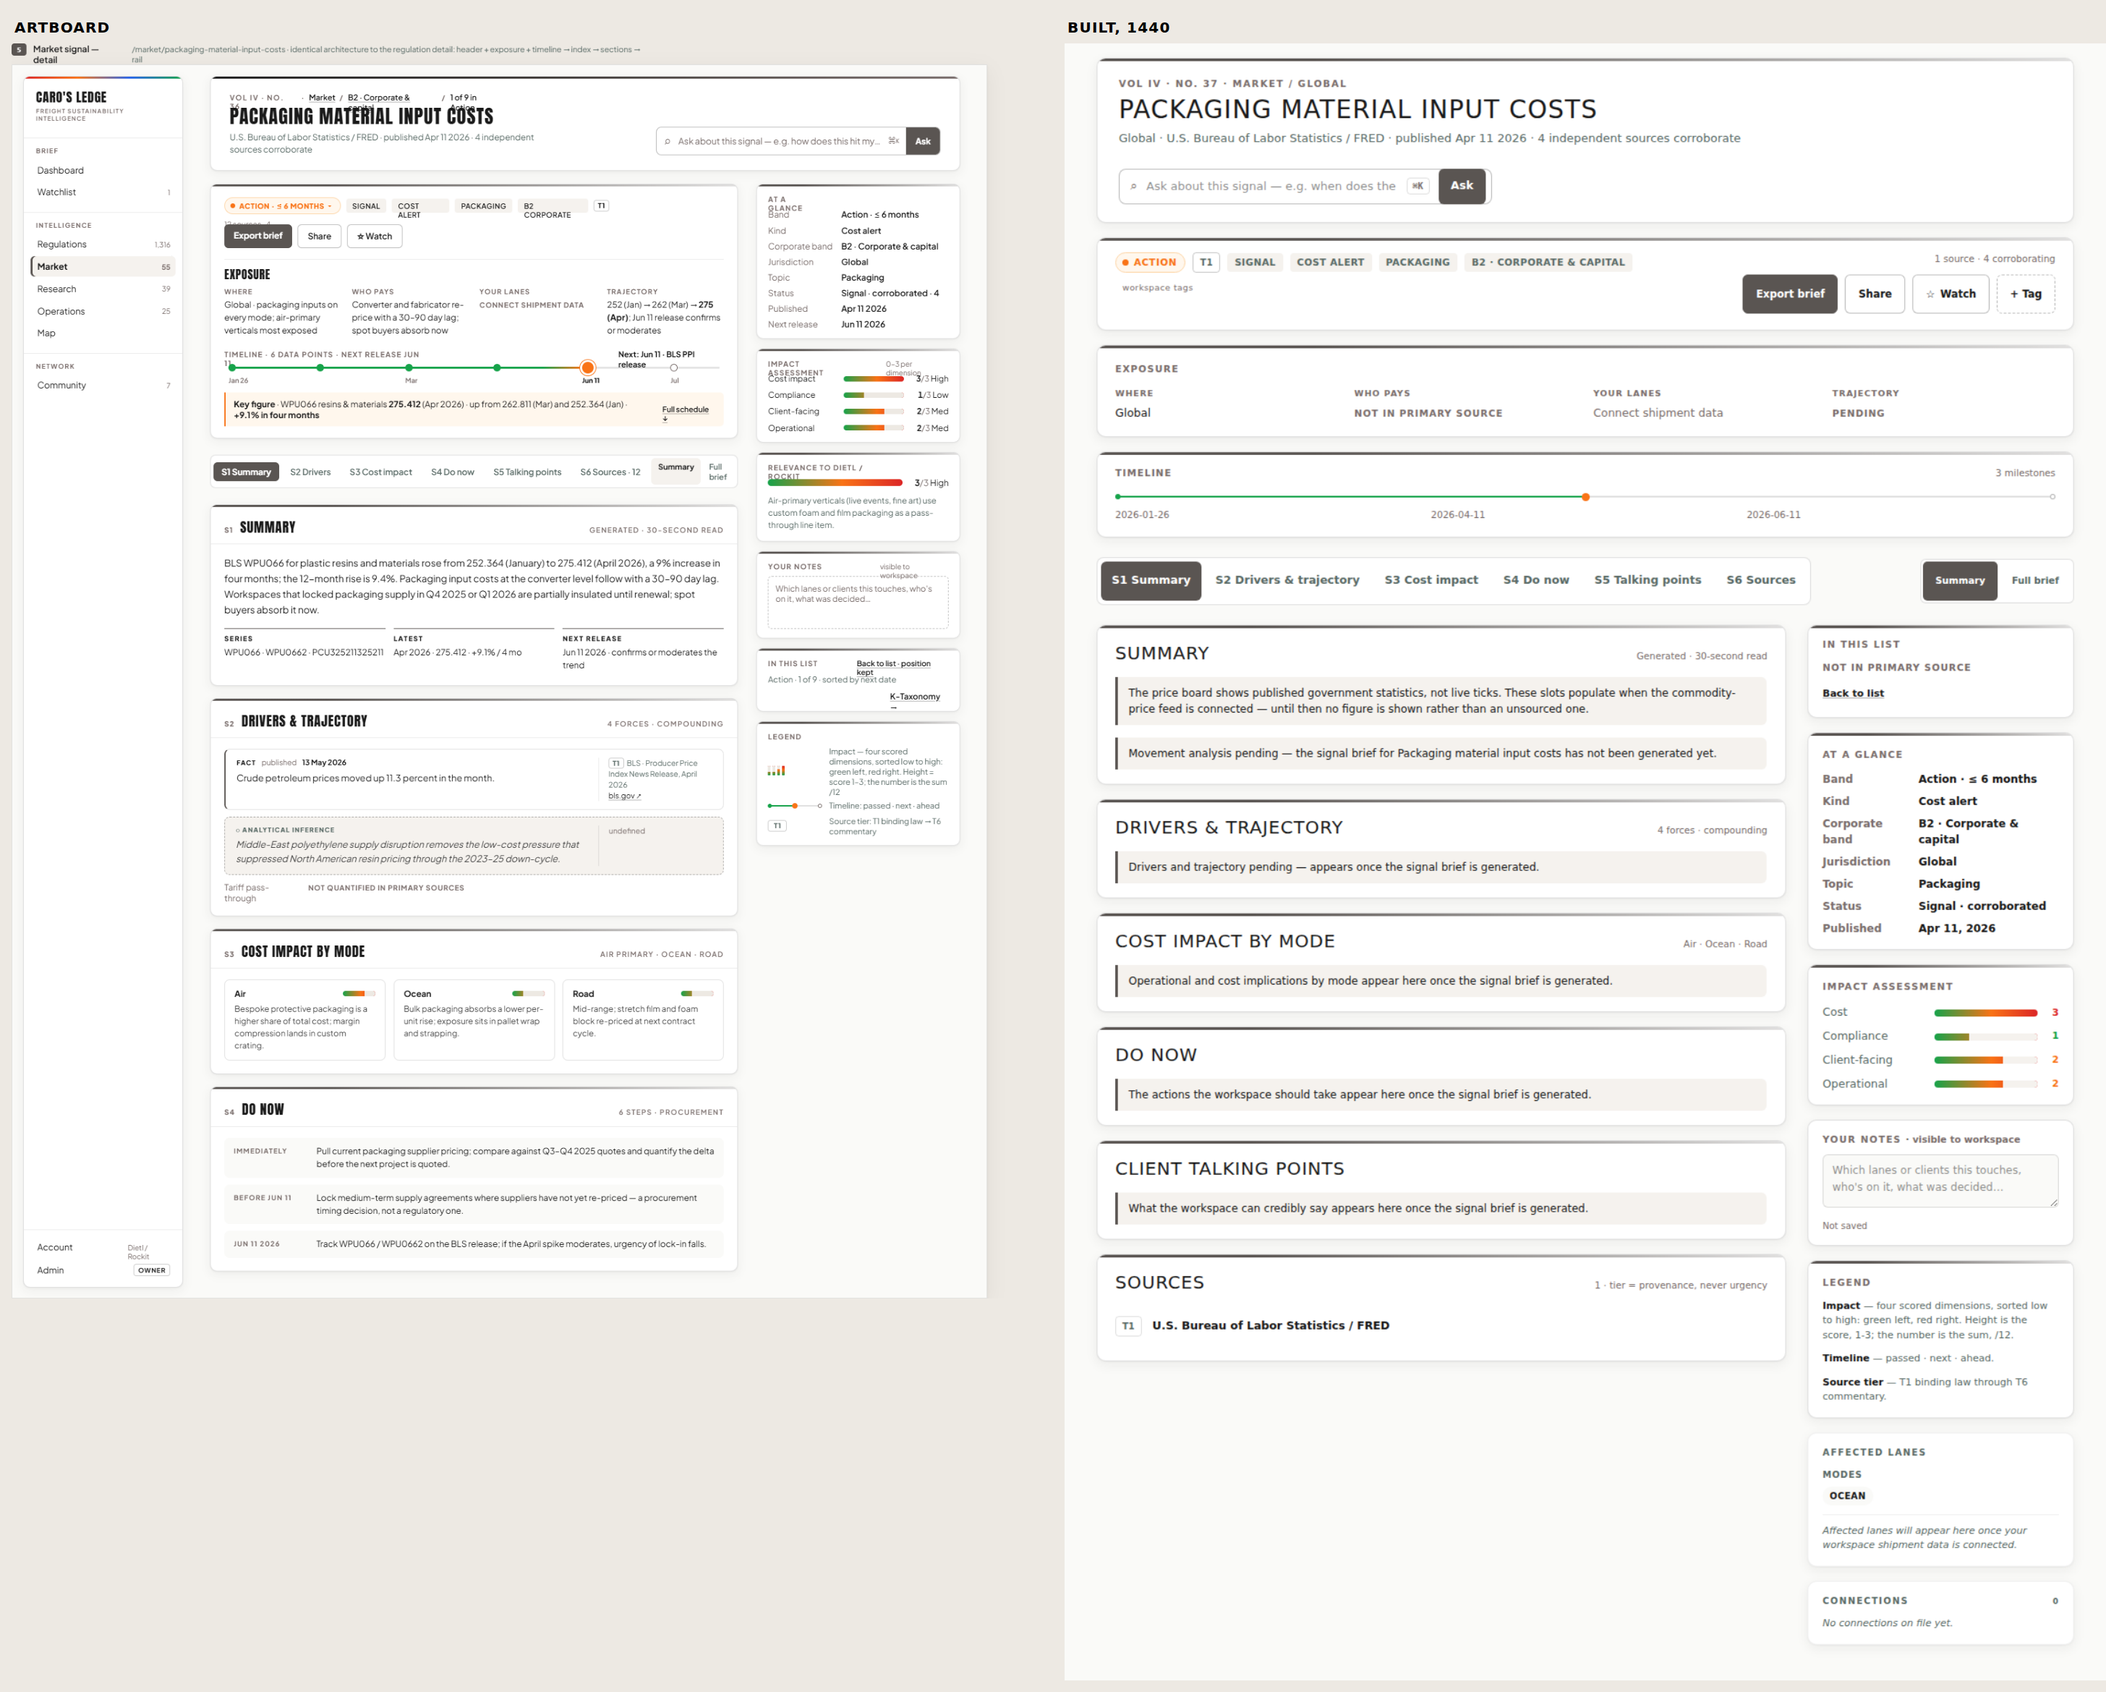
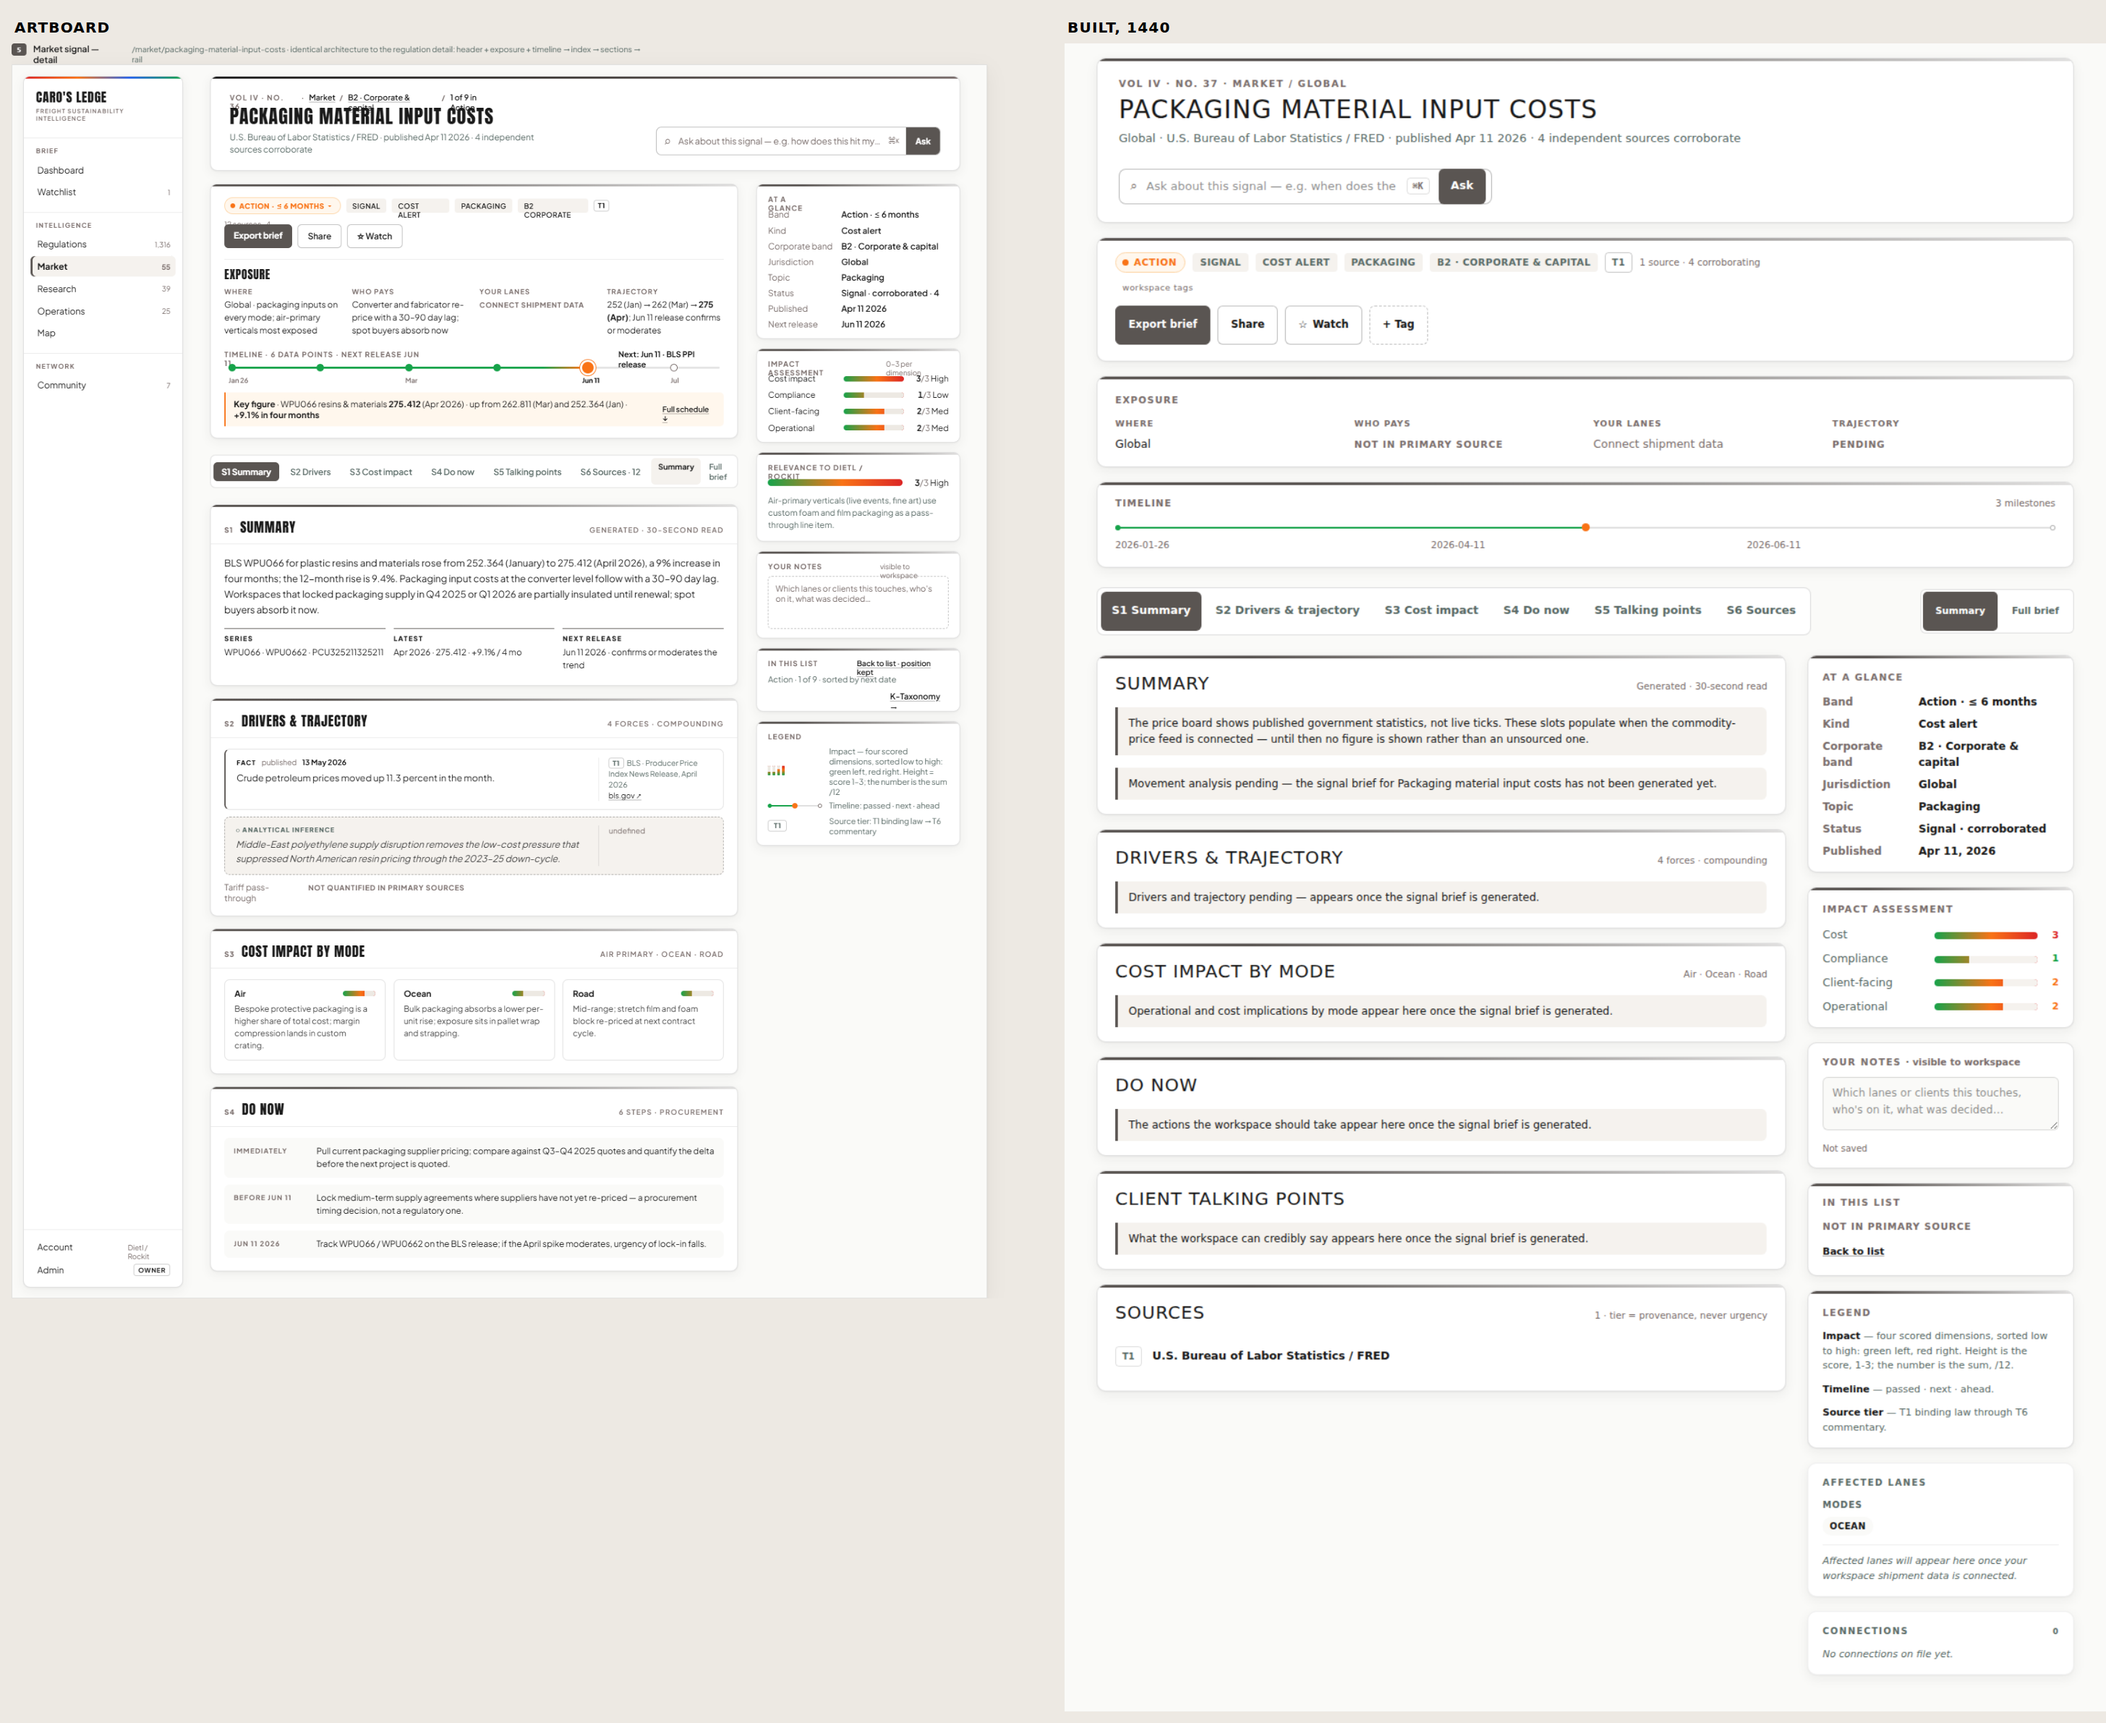
fix(detail): stack the header the way all four artboards draw it, and capture
Two geometry differences the side-by-sides showed that no spec measured.

1. The header stat ("7 sources · T1 primary", "1 source · 23 connections") is
   the LAST CHILD OF THE CHIP ROW on every detail artboard. The build rendered
   it as a right-aligned line of its own above the action row.
2. The artboards STACK the header: chip row, workspace tag row, action row,
   every one left-aligned at the card's own padding. The build laid it out as a
   two-column space-between row, so the action row floated to the card's right
   edge on 03/07/09 and only happened to stack on 05, where the chips were wide
   enough to force a wrap.

Both fixed once, in the shared DetailHeader.

Also: the 07 fixture gains `theme: 'emissions_accounting'`, the intelligence_
items column value assignTheme maps through THEME_COLUMN_TO_KEY. Without it the
classifier fell through to keyword matching, returned null, and artboard 07's
third chip and its At a glance "Theme" row were both absent from the capture.
compose-07 gains a chip-order row that measures it.

Side-by-sides regenerated and read beside the artboard PNGs.

Design audit 60 specs / 1012 checks / 1012 MATCH; rendering guard PASS; tsc
clean.

(cherry picked from commit bf3db5bf910269fe4cecd91bd5766cdbd4cdeaf8)
(cherry picked from commit 414281235960535f0979d6084e6d26ba34c7e498)

diff --git a/fsi-app/src/components/detail/DetailShell.tsx b/fsi-app/src/components/detail/DetailShell.tsx
@@ -117,8 +117,13 @@ export function DetailHeader({ band, tier, title, actions, extraChips, tagRow, h
       <div aria-hidden="true" style={{ position: "absolute", top: 0, left: 0, right: 0 }}>
         <SectionRule />
       </div>
-      <div style={{ display: "flex", justifyContent: "space-between", alignItems: "flex-start", gap: 16, flexWrap: "wrap" }}>
-        <div style={{ minWidth: 0 }}>
+      {/* All four detail artboards STACK this header: the chip row (ending in the tier square and
+          the stat), then the workspace tag row, then the action row, every one of them left-aligned
+          at the card's own padding. The build laid it out as a two-column space-between row, which
+          floated the action row to the right edge on 03/07/09 and only stacked on 05 when the chips
+          happened to be wide enough to force a wrap. */}
+      <div style={{ display: "flex", flexDirection: "column", alignItems: "flex-start", gap: 12 }}>
+        <div style={{ minWidth: 0, maxWidth: "100%" }}>
           <div data-audit="detail-chips" style={{ display: "flex", alignItems: "center", gap: 8, flexWrap: "wrap" }}>
             {/* Artboard chip order, all four detail artboards (dc.html #p3/#p5/#p7/#p9): band pill,
                 then the item's own type/mode/topic chips, then the TIER square LAST, immediately
@@ -128,18 +133,16 @@ export function DetailHeader({ band, tier, title, actions, extraChips, tagRow, h
             <BandChip band={band} />
             {extraChips}
             {typeof tier === "number" && <TierChip tier={tier} />}
-          </div>
-          {tagRow && <div style={{ marginTop: 10 }}>{tagRow}</div>}
-        </div>
-        {(actions || headerStat) && (
-          <div style={{ display: "flex", flexDirection: "column", alignItems: "flex-end", gap: 10, maxWidth: "100%" }}>
+            {/* The stat is the LAST child of the chip row on every detail artboard, not a
+                right-aligned line above the action row (which is where the build put it). */}
             {headerStat && (
               <span style={{ fontSize: "var(--fs-105)", color: "var(--ink-3)", whiteSpace: "nowrap" }}>{headerStat}</span>
             )}
-            {actions && (
-              <div style={{ display: "flex", gap: 8, flexWrap: "wrap", justifyContent: "flex-end", maxWidth: "100%" }}>{actions}</div>
-            )}
           </div>
+          {tagRow && <div style={{ marginTop: 10 }}>{tagRow}</div>}
+        </div>
+        {actions && (
+          <div style={{ display: "flex", gap: 8, flexWrap: "wrap", justifyContent: "flex-start", maxWidth: "100%" }}>{actions}</div>
         )}
       </div>
     </header>
